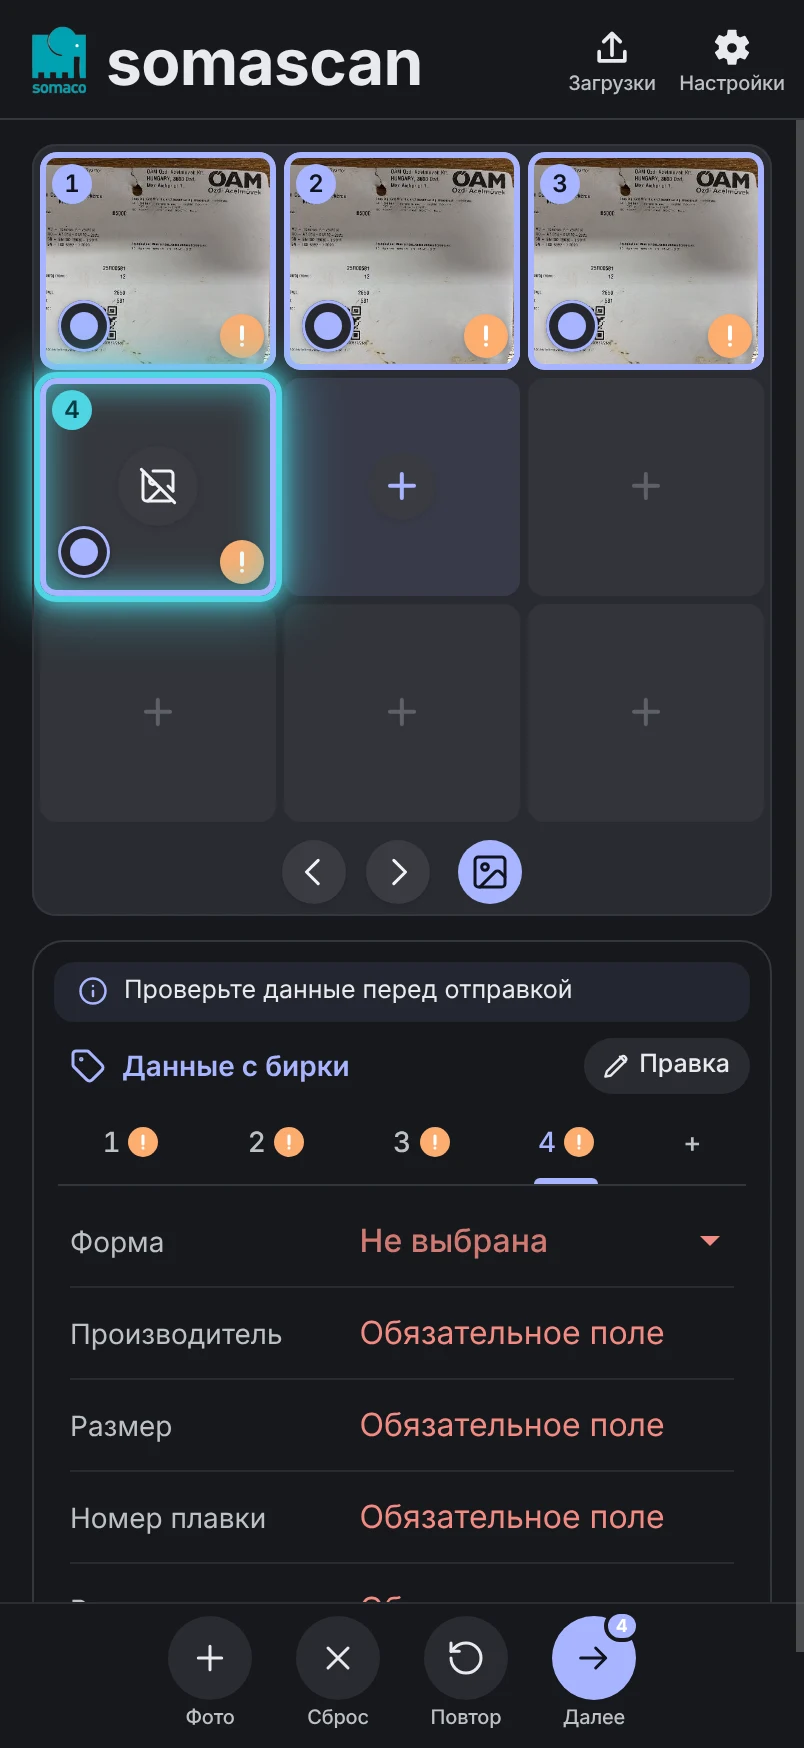
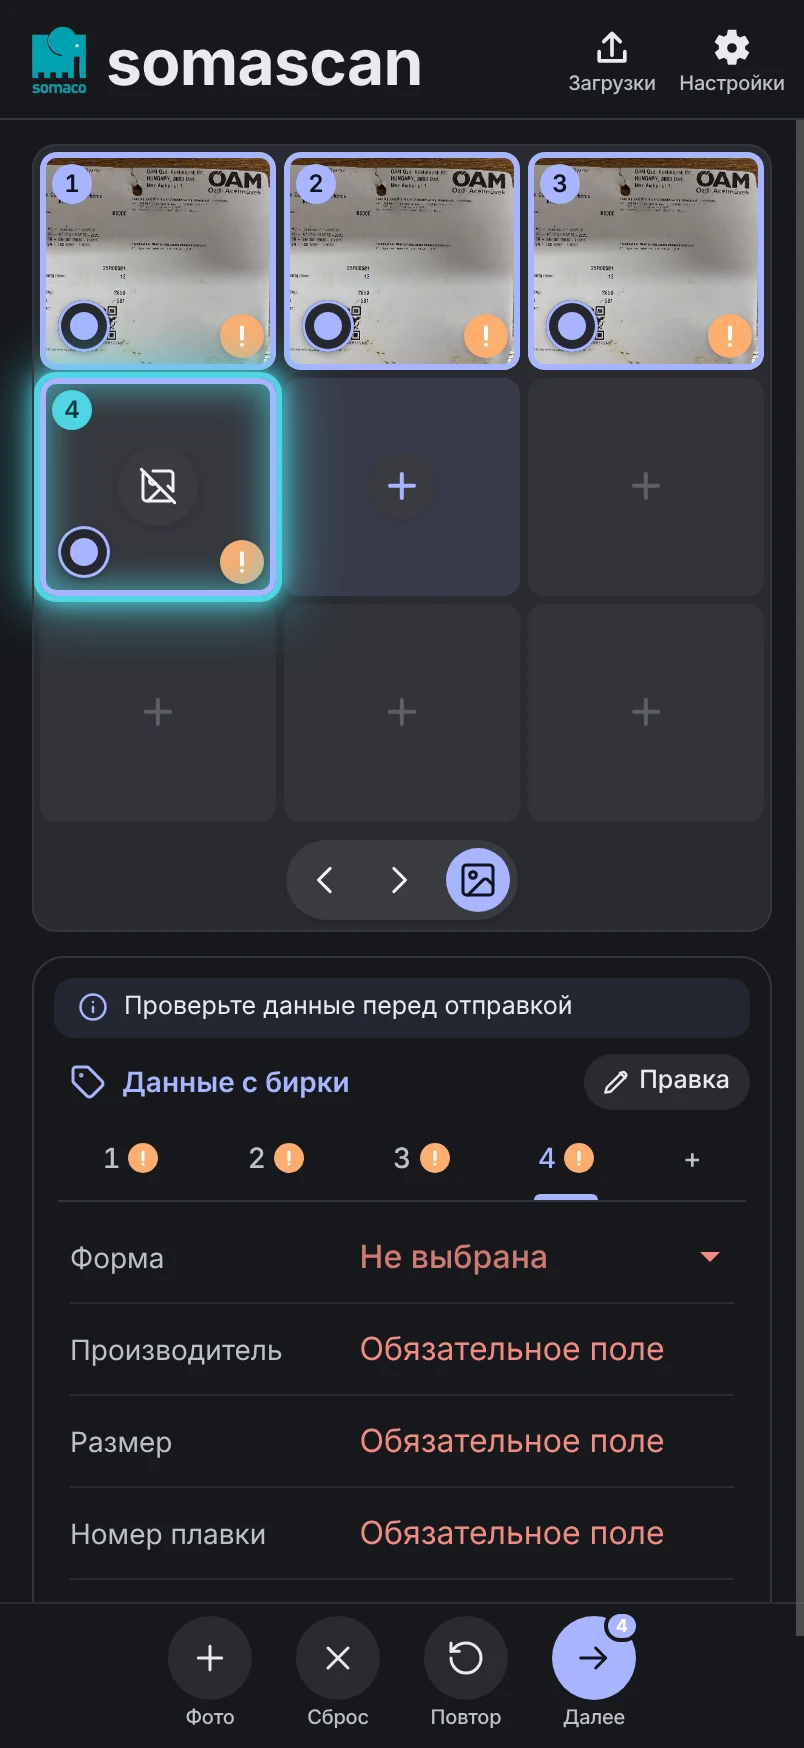
fix & feat: + Slide bar: going back from the grid to a single tag the bar rises over the photo smoothly instead of jumping — a finished transition was taken for a running one, so the next one started at its end + Liquid Glass: the floating pills keep their glass while the bar moves between the photo

diff --git a/src/features/workspace/components/SlideBar.tsx b/src/features/workspace/components/SlideBar.tsx
@@ -64,7 +64,7 @@ export function SlideBar({ activeIndex, positions, isGrid, onPrevious, onNext, o
   const barRef = useRef<HTMLDivElement>(null)
   /** Парит ли панель сейчас (для появления и для перехода между «парит» и «полоса»). */
   const floatingRef = useRef(isFloating)
-  /** Идущий переход между «парит» и «полоса». */
+  /** Идущий переход между «парит» и «полоса» (null — панель на месте). */
   const liftRef = useRef<Animation | null>(null)
 
   // Высота панели — блоку фото: на столько парящая панель поднята над низом фото, и столько места над ней
@@ -84,7 +84,8 @@ export function SlideBar({ activeIndex, positions, isGrid, onPrevious, onNext, o
   }, [])
 
   // «Парит» ↔ «полоса»: панель опускается под фото (блок растёт) или поднимается на него — вместе с переходом
-  // к сетке и обратно. Новый переход начинается с того места, где панель сейчас.
+  // к сетке и обратно. Переход, начатый посреди другого, начинается с того места, где панель сейчас. Пока панель
+  // едет (`is-moving`), стекло «пилюль» размывает фото под ними и в полосе: оно не пропадает и не появляется рывком.
   useLayoutEffect(() => {
     const bar = barRef.current
     if (!bar || floatingRef.current === isFloating) return
@@ -95,7 +96,13 @@ export function SlideBar({ activeIndex, positions, isGrid, onPrevious, onNext, o
     running?.cancel()
     liftRef.current = null
     if (prefersReducedMotion()) return
-    liftRef.current = bar.animate([{ marginTop: from }, { marginTop: isFloating ? lifted : '0px' }], motionTiming())
+    const lift = bar.animate([{ marginTop: from }, { marginTop: isFloating ? lifted : '0px' }], motionTiming())
+    liftRef.current = lift
+    bar.classList.add('is-moving')
+    void lift.finished.then(() => {
+      liftRef.current = null
+      bar.classList.remove('is-moving')
+    }, () => undefined)
   }, [isFloating])
   useLayoutEffect(() => () => liftRef.current?.cancel(), [])
 

diff --git a/src/features/workspace/components/SlideBar.css b/src/features/workspace/components/SlideBar.css
@@ -20,7 +20,7 @@
   display: flex;
   align-items: center;
   gap: 10px;
-  transition: opacity 240ms ease, visibility 0s;
+  transition: opacity 240ms ease, visibility 0s, box-shadow 400ms ease;
 }
 
 .slide-bar-tools.is-start {
@@ -35,7 +35,7 @@
 .slide-bar-tools.is-hidden {
   opacity: 0;
   visibility: hidden;
-  transition: opacity 240ms ease, visibility 0s 240ms;
+  transition: opacity 240ms ease, visibility 0s 240ms, box-shadow 400ms ease;
 }
 
 /*
@@ -89,6 +89,7 @@
   display: flex;
   align-items: center;
   gap: 10px;
+  transition: box-shadow 400ms ease;
 }
 
 .slide-bar .action-button-caption {
@@ -105,6 +106,28 @@
 /* Парящие кнопки отбрасывают тень на фото — они «в воздухе» над ним. */
 .slide-bar.is-floating .action-button.is-tonal .action-button-icon {
   box-shadow: 0 2px 8px rgb(0 0 0 / 28%);
+}
+
+/*
+ * Material Design: каждая группа кнопок — в своей «пилюле», как стеклянные в Liquid Glass, но по-материальному:
+ * непрозрачный контейнер с тенью подъёма (плавающая панель инструментов Material 3), кнопки в нём без своих кругов.
+ * Над фото тень глубже — панель парит; в полосе сетки — мягкая.
+ */
+:root:not([data-platform='ios']) :is(.slide-bar-pill, .slide-bar-tools) {
+  gap: 4px;
+  padding: 4px;
+  background: var(--photo-empty-plus-bg);
+  border-radius: 999px;
+  box-shadow: 0 1px 2px rgb(0 0 0 / 12%);
+}
+
+:root:not([data-platform='ios']) .slide-bar.is-floating :is(.slide-bar-pill, .slide-bar-tools) {
+  box-shadow: 0 3px 10px rgb(0 0 0 / 30%), 0 1px 3px rgb(0 0 0 / 20%);
+}
+
+:root:not([data-platform='ios']) .slide-bar .action-button.is-tonal .action-button-icon {
+  background: transparent;
+  box-shadow: none;
 }
 
 /* Уголок влево — тот же уголок вправо, развёрнутый. */
@@ -139,7 +162,7 @@
   box-shadow: var(--glass-shadow);
 }
 
-:root[data-platform='ios'][data-ios-design='glass'] .slide-bar.is-floating :is(.slide-bar-pill, .slide-bar-tools) {
+:root[data-platform='ios'][data-ios-design='glass'] .slide-bar:is(.is-floating, .is-moving) :is(.slide-bar-pill, .slide-bar-tools) {
   -webkit-backdrop-filter: var(--glass-blur);
   backdrop-filter: var(--glass-blur);
 }
